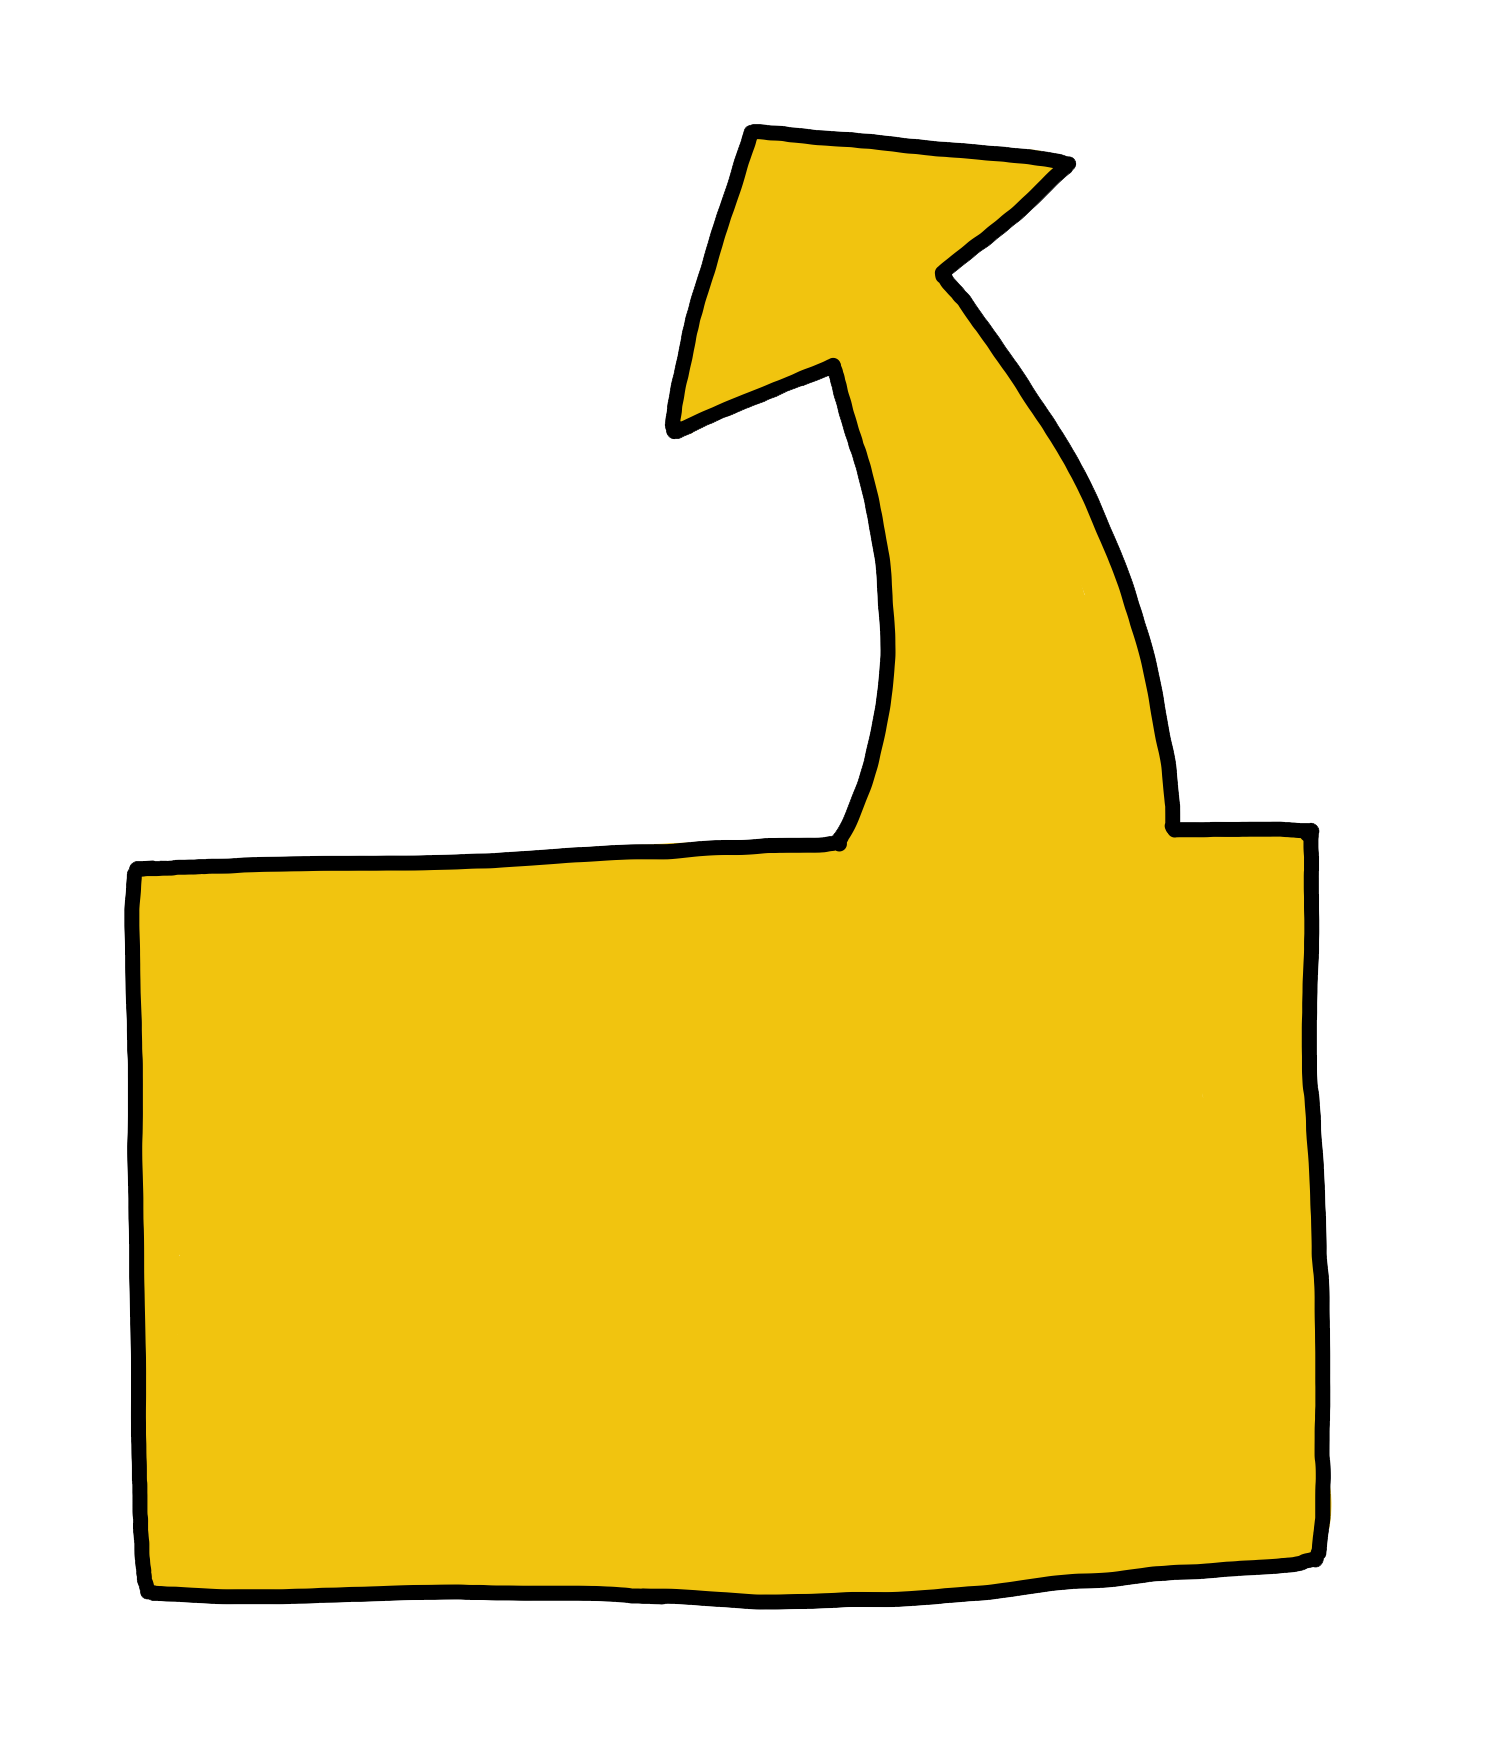
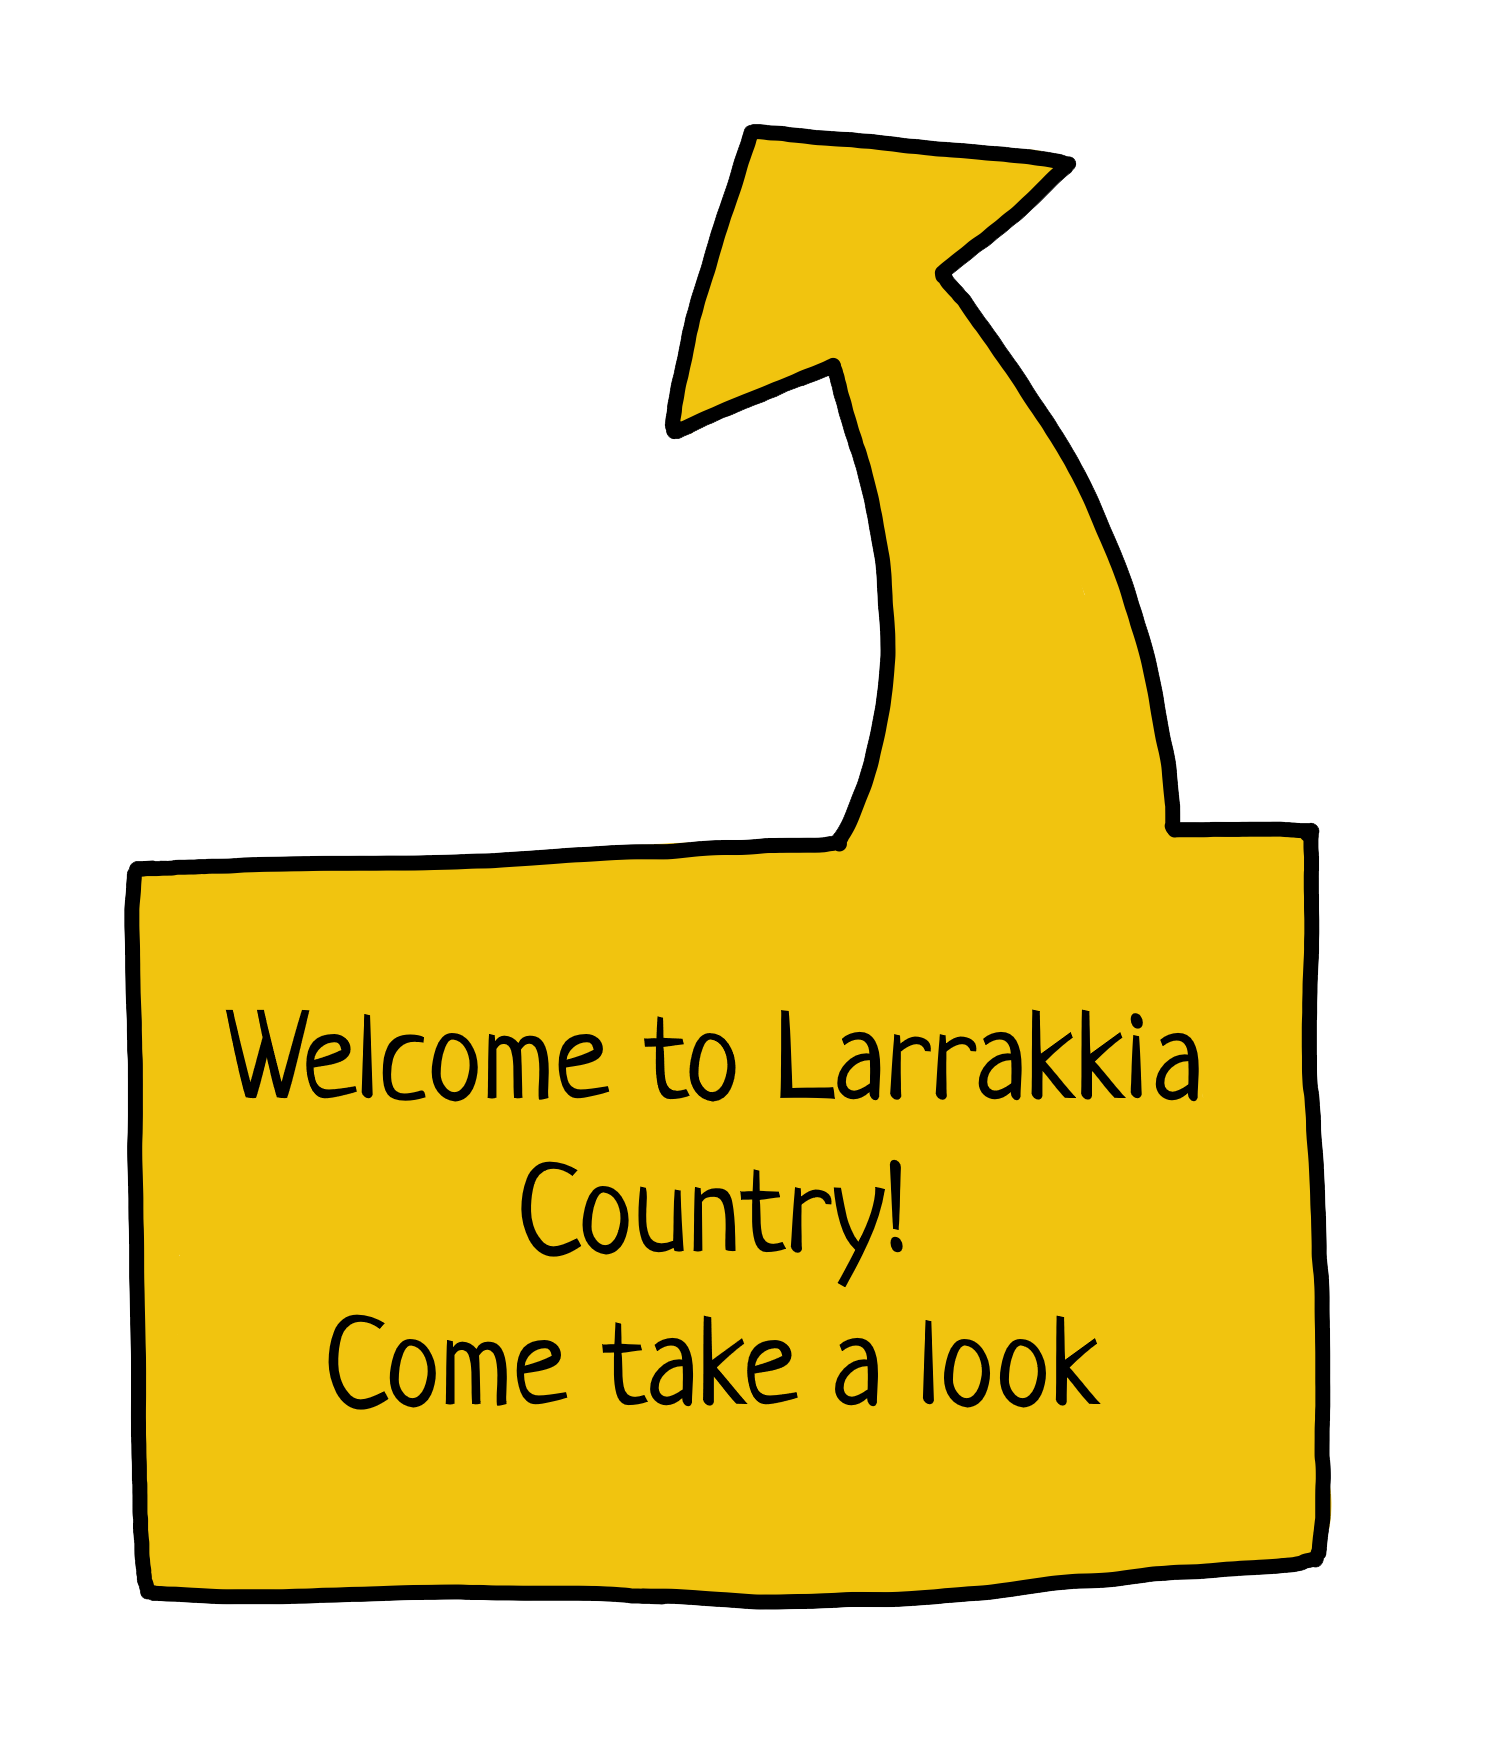
add initial styling to map landing page

diff --git a/client/components/LandingMap.jsx b/client/components/LandingMap.jsx
@@ -8,18 +8,18 @@ export class LandingMap extends React.Component {
         <>
             <div id="landingMapContainer">
                 <div id="landing-title">
-                  <h1>Larrakia Language App For Kids</h1>
+                  <h1 className='llaLanding'>Larrakia Language App <h1 className='for-kidslanding'>&nbsp;For Kids</h1></h1>
                 </div>
                 <img id="landingMapImage" src='/images/map.png' alt='Northern Australia map image'/>
                 <Link to="/map">
                     <div id="button-enterApp">
                         {/* Change button to pin or sign */}
-                        <img className="button-image" src='/images/orangeButton.png' alt='Map pin image'/>
+                        <img className="button-image" src='/images/pin.png' alt='Map pin image'/>
                     </div>
                 </Link>
                 <div id="welcomeBox">
                         {/* Change button to pin or sign */}
-                        <img className="box-image" src='/images/Capture2.PNG' alt='welcome box image'/>
+                        <img className="box-image" src='/images/yellowSign.png' alt='welcome box image'/>
                     </div>
             </div>
         </>

diff --git a/public/main.css b/public/main.css
@@ -273,6 +273,17 @@ div .app {
   left: 14%;
 }
 
+.llaLanding {
+  text-align:left;float:left;
+  font-size: 60px;
+}
+
+.for-kidslanding {
+  text-align:right;float:right;
+  font-family: 'Neucha';
+  font-size: 60px;
+}
+
 .memoryGame {
   text-align: center;
   justify-content: center;
@@ -312,8 +323,8 @@ div .app {
 
 #button-enterApp{
   position: absolute;
-  top: 22%;
-  left: 35%;
+  top: 21%;
+  left: 36%;
   cursor: pointer;
   width: 100px;
   height:100px;
@@ -321,11 +332,18 @@ div .app {
 
 #welcomeBox{
   position: absolute;
-  bottom: 40%;
-  left: 35%;
+  bottom: 35%;
+  left: 25%;
   cursor: pointer;
-  width: 100px;
-  height:100px;
+  height: auto; 
+  width: auto; 
+  max-width: 600px; 
+  max-height: 600px;
+}
+
+.box-image {
+  width: 100%;
+  height: 100%;
 }
 
 .team-card {
@@ -359,3 +377,4 @@ div .app {
   display: flex;
   justify-content: center;
 }
+
